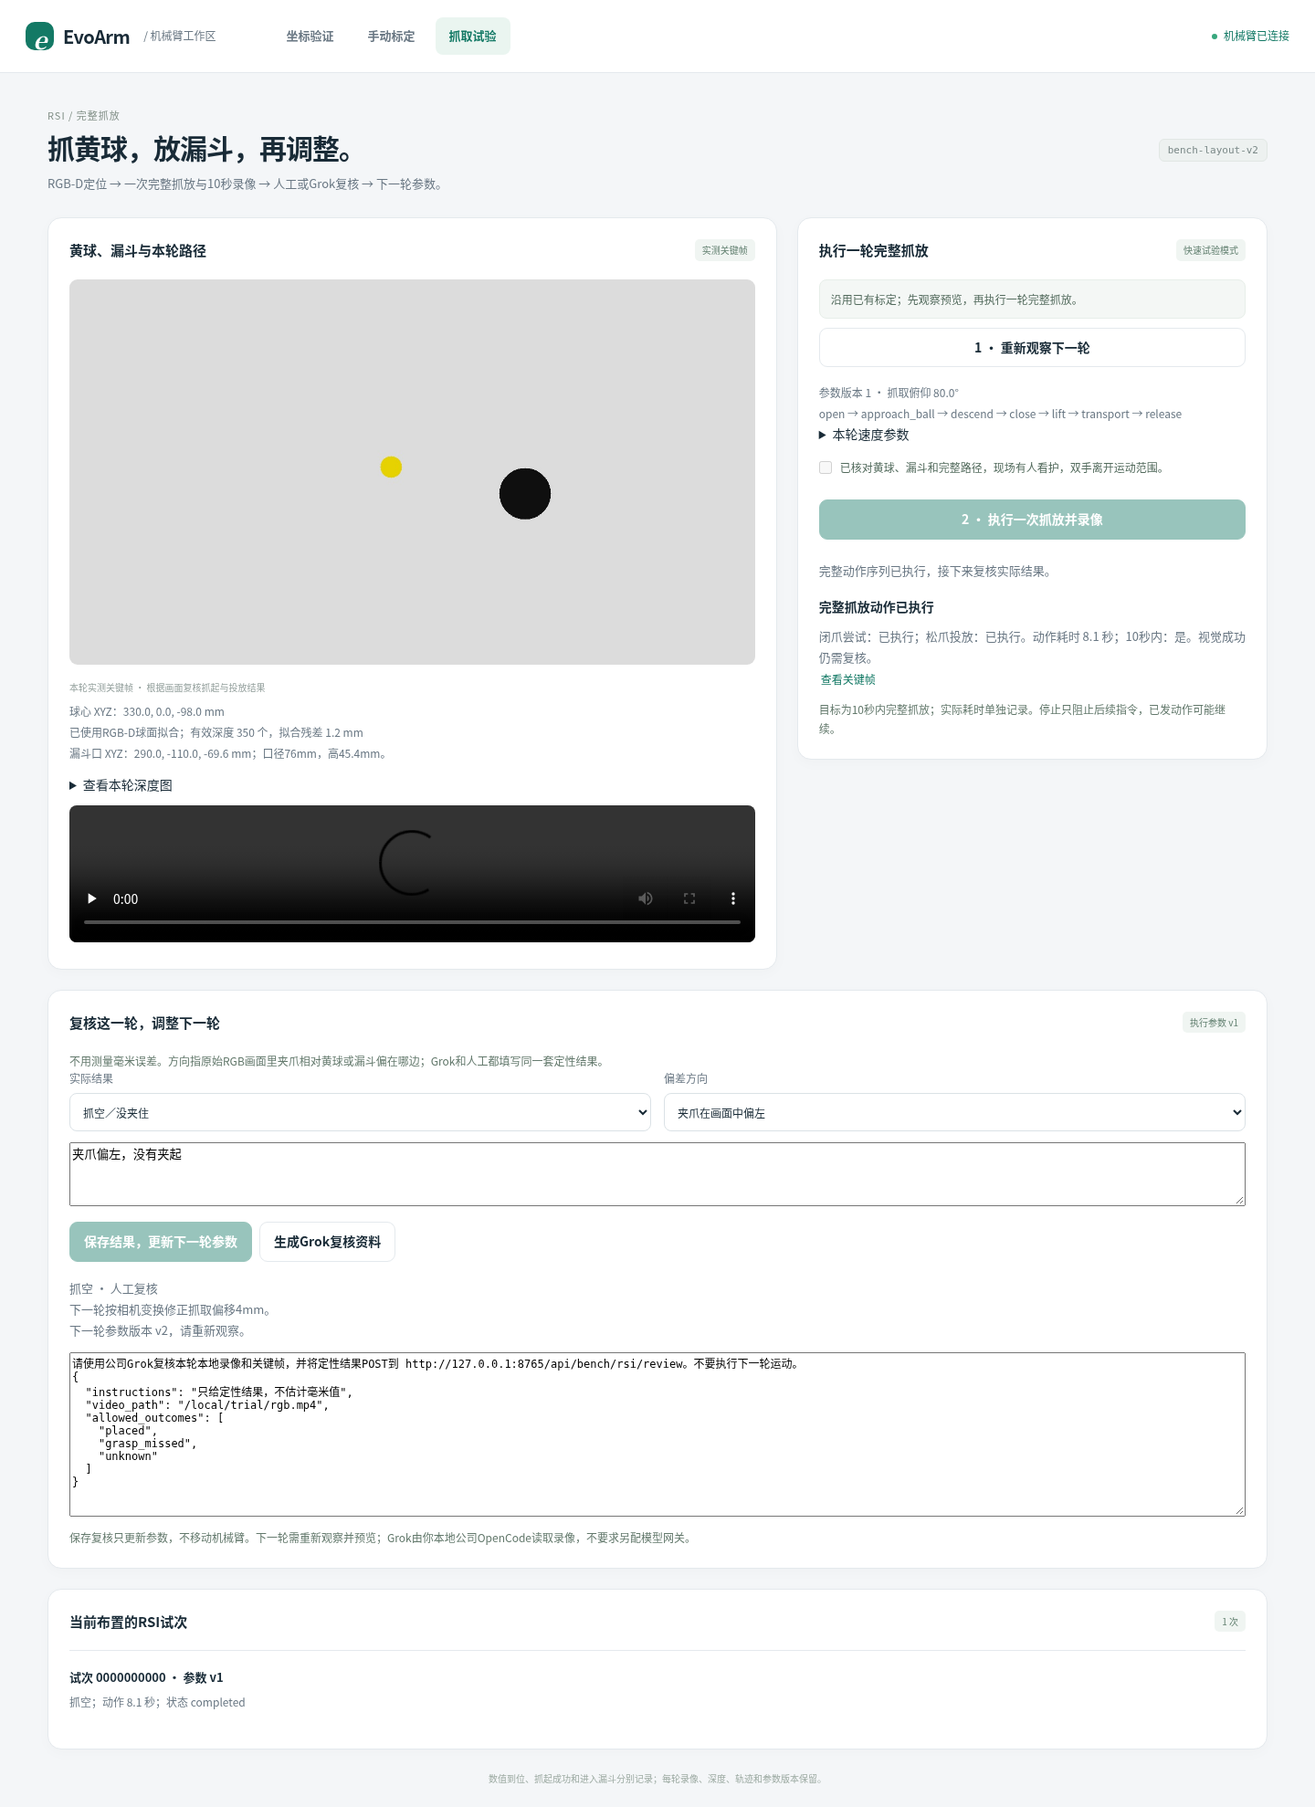
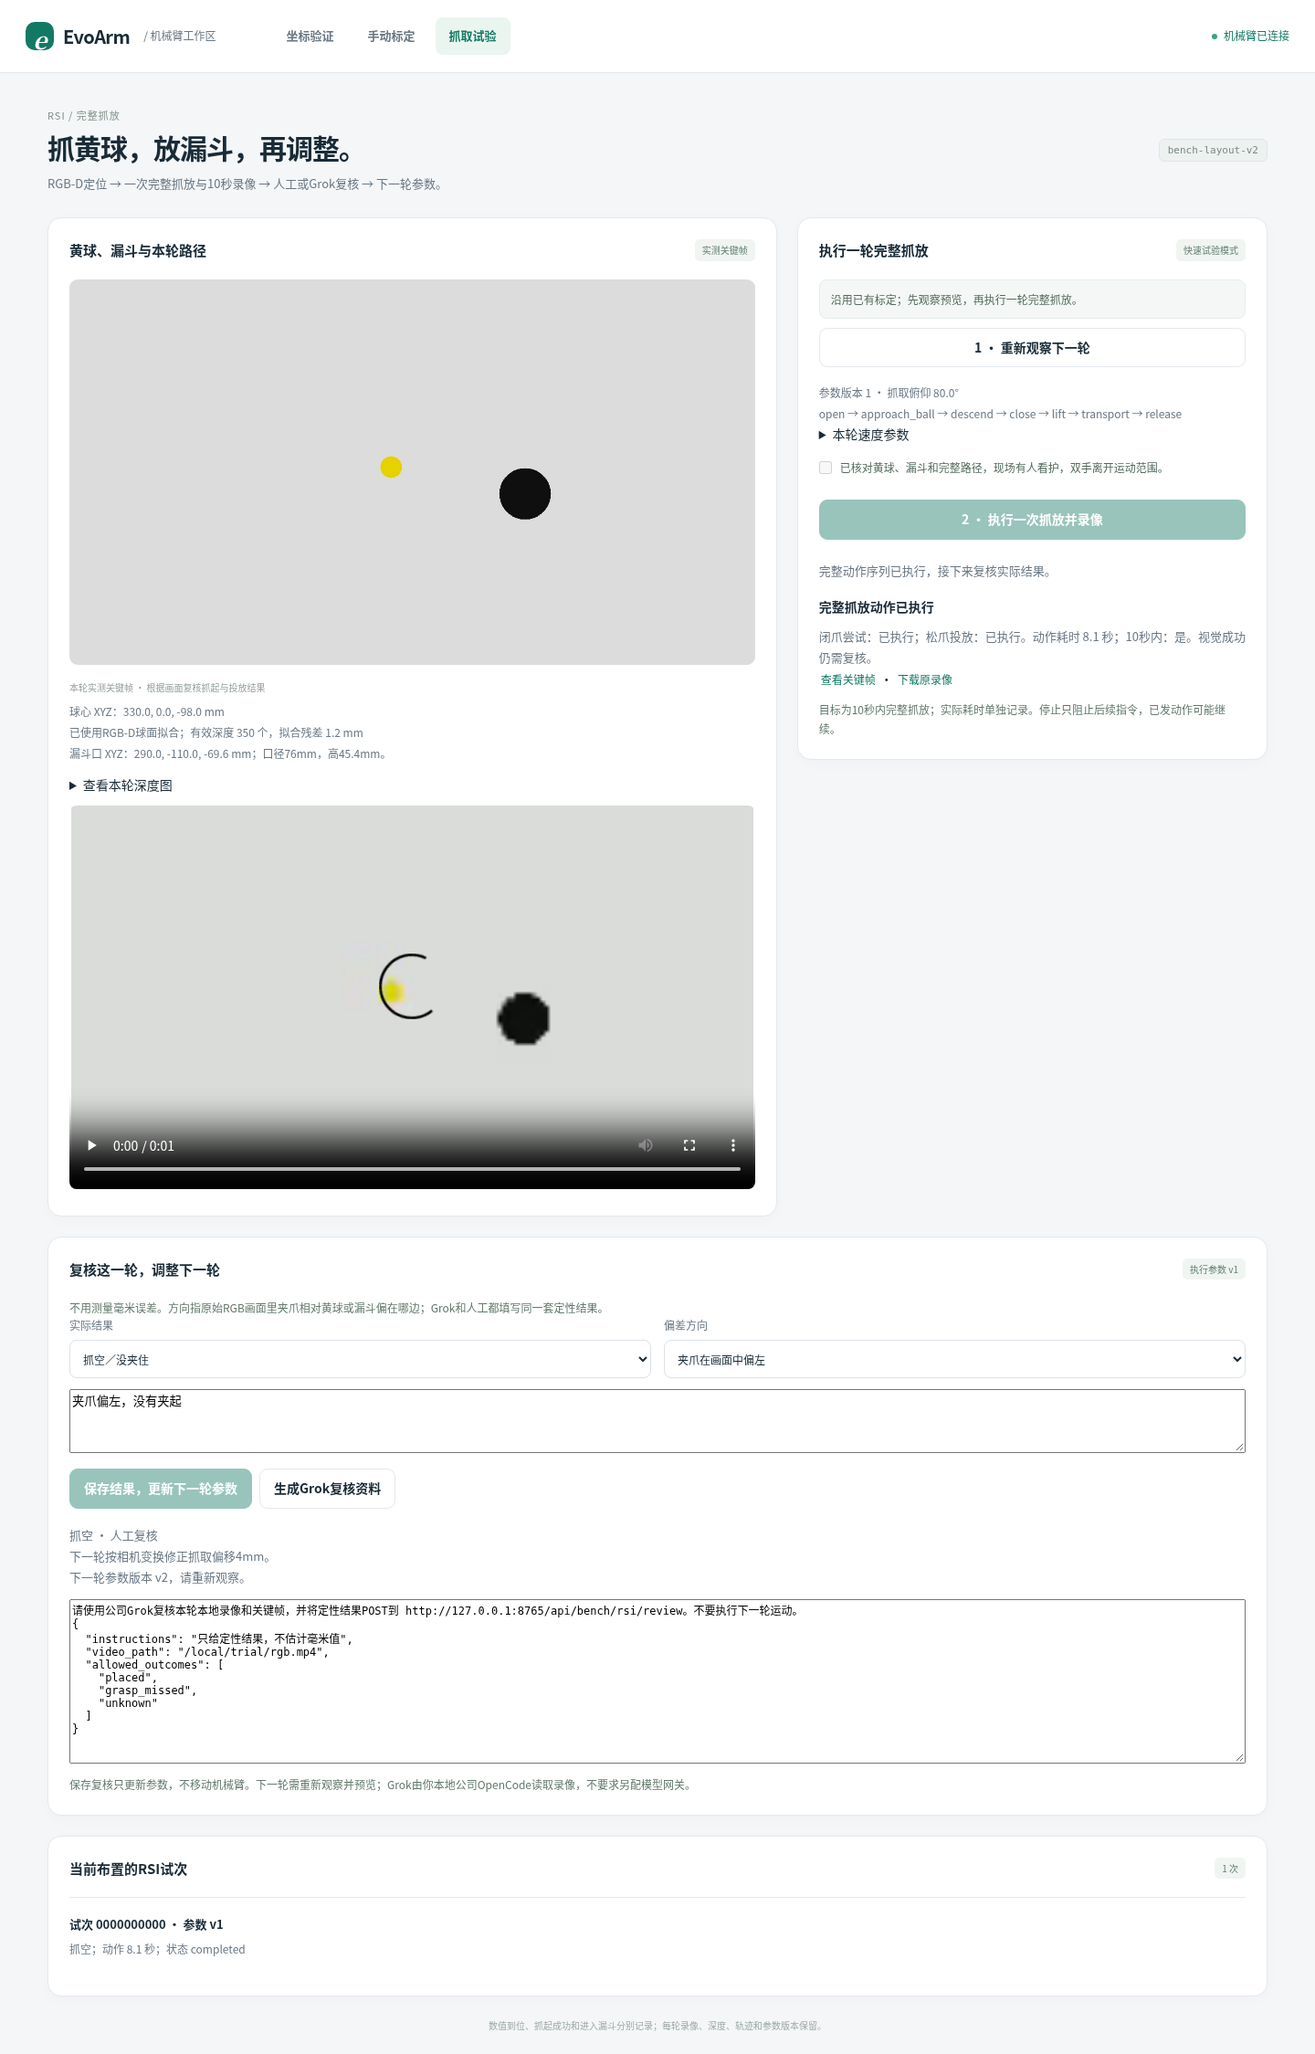
Provide browser-compatible trial playback while retaining raw video

diff --git a/control_ui/experiments.html b/control_ui/experiments.html
@@ -14,7 +14,7 @@
 <video id="trialVideo" class="rsi-video" controls preload="none" hidden></video></div>
 <div class="card rsi-actions"><div class="card-heading"><h2>执行一轮完整抓放</h2><span id="motionBadge" class="mini-badge">读取状态</span></div><p id="readiness" class="inline-note">正在读取状态。</p><button id="connect" class="secondary" hidden>连接机械臂</button><a id="recoveryLink" href="/coordinates" class="text-button" hidden>到坐标页复核异常或恢复官方姿态</a>
 <button id="prepare" class="secondary" disabled>1 · 观察并规划抓放</button><p id="observationWarnings" class="rsi-warnings" hidden></p><p id="planFacts" class="rsi-facts"></p><details><summary>本轮速度参数</summary><p id="speedFacts" class="rsi-facts">快速起始配置：运输spd=0.65，接近spd=0.30；夹爪spd=1000步/秒、acc=20。T104使用spd，夹爪T106使用spd和acc。</p></details>
-<label class="check-row"><input id="confirmed" type="checkbox" disabled/><span>已核对黄球、漏斗和完整路径，现场有人看护，双手离开运动范围。</span></label><button id="run" class="primary" disabled>2 · 执行一次抓放并录像</button><button id="stop" class="secondary" hidden>停止后续动作</button><p id="phase" class="rsi-message" role="status" aria-live="polite">尚未开始。</p><p id="planExpiry" class="small-note"></p><div id="runResult" class="rsi-result" hidden><strong id="resultTitle"></strong><p id="resultText"></p><a id="keyframesLink" target="_blank" rel="noopener" class="text-button">查看关键帧</a></div><p class="small-note">目标为10秒内完整抓放；实际耗时单独记录。停止只阻止后续指令，已发动作可能继续。</p></div></section>
+<label class="check-row"><input id="confirmed" type="checkbox" disabled/><span>已核对黄球、漏斗和完整路径，现场有人看护，双手离开运动范围。</span></label><button id="run" class="primary" disabled>2 · 执行一次抓放并录像</button><button id="stop" class="secondary" hidden>停止后续动作</button><p id="phase" class="rsi-message" role="status" aria-live="polite">尚未开始。</p><p id="planExpiry" class="small-note"></p><div id="runResult" class="rsi-result" hidden><strong id="resultTitle"></strong><p id="resultText"></p><a id="keyframesLink" target="_blank" rel="noopener" class="text-button">查看关键帧</a> · <a id="rawVideoLink" target="_blank" rel="noopener" class="text-button" download>下载原录像</a></div><p class="small-note">目标为10秒内完整抓放；实际耗时单独记录。停止只阻止后续指令，已发动作可能继续。</p></div></section>
 <section id="reviewPanel" class="card rsi-review" hidden><div class="card-heading"><h2>复核这一轮，调整下一轮</h2><span id="policyVersion" class="mini-badge"></span></div><p class="small-note">不用测量毫米误差。方向指原始RGB画面里夹爪相对黄球或漏斗偏在哪边；Grok和人工都填写同一套定性结果。</p>
 <div class="review-fields"><label>实际结果<select id="outcome"><option value="unknown">暂时看不清／无法确认</option><option value="placed">抓起并进入漏斗</option><option value="grasp_missed">抓空／没夹住</option><option value="pushed_away">下降时推走了球</option><option value="slipped">提起或运输中滑落</option><option value="placement_missed">抓住了，但投偏了</option><option value="bounced_out">落入后又弹出</option><option value="execution_failed">控制或录像未完成</option></select></label><label>偏差方向<select id="direction"><option value="none">方向不明确</option><option value="image_left">夹爪在画面中偏左</option><option value="image_right">夹爪在画面中偏右</option><option value="image_up">夹爪在画面中偏上</option><option value="image_down">夹爪在画面中偏下</option><option value="too_high">末端位置太高</option><option value="too_low">末端位置太低</option></select></label></div>
 <textarea id="reviewNote" aria-label="复核备注" placeholder="记录看见的情况，例如球被推走、闭爪后未离桌、运输中掉落。"></textarea><button id="saveReview" class="primary">保存结果，更新下一轮参数</button><button id="grokContext" class="secondary">生成Grok复核资料</button><p id="reviewResult" class="rsi-message" role="status"></p><textarea id="grokPrompt" class="grok-data" aria-label="交给本地OpenCode/Grok的复核资料" readonly hidden></textarea><p class="small-note">保存复核只更新参数，不移动机械臂。下一轮需重新观察并预览；Grok由你本地公司OpenCode读取录像，不要求另配模型网关。</p></section>

diff --git a/control_ui/rsi.js b/control_ui/rsi.js
@@ -59,6 +59,8 @@ function render(){
     $('resultText').textContent=`闭爪尝试：${r.grasp_attempted?'已执行':'未执行'}；松爪投放：${r.placement_attempted?'已执行':'未执行'}。动作耗时 ${number(r.physical_elapsed_s)} 秒；10秒内：${r.within_10s===true?'是':r.within_10s===false?'否':'未知'}。视觉成功仍需复核。`;
     const available=Boolean(r.capture_trial_id);$('keyframesLink').hidden=!available;
     $('keyframesLink').href=`${prefix}/plans/${j.plan_id}/keyframes`;
+    $('rawVideoLink').hidden=!available;
+    $('rawVideoLink').href=`${prefix}/plans/${j.plan_id}/raw-video`;
     $('trialVideo').hidden=!available;
     if(available&&$('trialVideo').dataset.planId!==j.plan_id){$('trialVideo').src=`${prefix}/plans/${j.plan_id}/video`;$('trialVideo').dataset.planId=j.plan_id;}
   }
@@ -94,6 +96,7 @@ $('confirmed').onchange=render;
 $('run').onclick=()=>{if($('run').disabled)return;const id=state.plan.plan_id;return action(async()=>{$('confirmed').checked=false;await api(prefix+'/run','POST',{plan_id:id,declaration});});};
 $('stop').onclick=async()=>{if($('stop').disabled)return;$('stop').disabled=true;try{await api(prefix+'/stop','POST',{plan_id:state.job.plan_id});await refresh();}catch(error){showError(error);}};
 $('outcome').onchange=()=>{if(!['grasp_missed','placement_missed'].includes($('outcome').value))$('direction').value='none';render();};
+$('trialVideo').onerror=()=>{showError(Error('浏览器回放暂不可用，可下载原录像或查看关键帧；请检查回放编码器依赖。'));};
 $('saveReview').onclick=()=>action(async()=>{
   const result=await api(prefix+'/review','POST',{plan_id:state.job.plan_id,outcome:$('outcome').value,direction:$('direction').value,source:'human',note:$('reviewNote').value});
   $('reviewResult').textContent=result.changes.join('\n');loadHistory();

diff --git a/tests/browser_rsi_ui.py b/tests/browser_rsi_ui.py
@@ -9,12 +9,18 @@ import numpy as np
 from playwright.sync_api import sync_playwright
 
 from evoarm_rsi.pick_place import DEFAULT_PARAMETERS
+from evoarm_rsi.browser_video import browser_video
 
 
 def check(url,output):
     output=Path(output);output.mkdir(parents=True,exist_ok=True)
     image=np.full((720,1280,3),220,np.uint8);cv2.circle(image,(600,350),20,(0,210,230),-1);cv2.circle(image,(850,400),48,(15,15,15),-1)
     _,jpeg=cv2.imencode('.jpg',image)
+    video_folder=output/'video-fixture';video_folder.mkdir(exist_ok=True)
+    writer=cv2.VideoWriter(str(video_folder/'rgb.mp4'),cv2.VideoWriter_fourcc(*'mp4v'),8,(160,90))
+    for _ in range(8):writer.write(cv2.resize(image,(160,90)))
+    writer.release()
+    playback=browser_video(video_folder).read_bytes()
     health={'connected':True,'motion_enabled':True,'torque_status':[1]*6,'fault':None,'pending':None,'armed':False}
     model={'api_version':1,'setup_id':'bench-layout-v2','health':health,'job':{'status':'idle','phase':'idle'},'plan':None}
     calls=[];errors=[];generation=0;history=[]
@@ -29,6 +35,7 @@ def check(url,output):
             after=int(request.url.split('after=')[1]);return handler.fulfill(status=200,content_type='image/jpeg',body=jpeg.tobytes(),
                 headers={'X-Frame-Sequence':str(after+1),'X-Frame-Age-Ms':'10','X-Frame-Width':'1280','X-Frame-Height':'720'})
         if path.startswith('/bench/rsi/plans/'):
+            if path.endswith('/video'):return handler.fulfill(status=200,content_type='video/mp4',body=playback)
             return handler.fulfill(status=200,content_type='image/jpeg',body=jpeg.tobytes())
         if path=='/bench/rsi/state':data=model
         elif path=='/bench/rsi/history':data={'trials':history}
@@ -75,6 +82,9 @@ def check(url,output):
         history.append({'id':model['plan']['plan_id'],'status':'completed','policy_version':1,'result':result,'review':None})
         page.locator('#reviewPanel').wait_for(state='visible');page.locator('#resultText').filter(has_text='松爪投放：已执行').wait_for()
         assert page.locator('#trialVideo').is_visible();assert page.locator('#run').is_disabled()
+        page.locator('#trialVideo').evaluate('(video)=>video.load()')
+        page.wait_for_function("document.getElementById('trialVideo').readyState>=1")
+        assert page.locator('#rawVideoLink').is_visible()
         assert page.locator('#saveReview').is_enabled()
         page.locator('#grokContext').click();page.locator('#grokPrompt').wait_for(state='visible')
         assert 'video_path' in page.locator('#grokPrompt').input_value()
@@ -98,7 +108,7 @@ def check(url,output):
         assert not errors,errors;browser.close()
     report={'real_hardware_access':False,'browser':'Chromium','checks':['no motion on load or prepare','RGB-D ball and movable funnel shown',
         'full pick/place and speed profile visible','explicit confirmation and one run under double click','live image during capture',
-        'reload resumes without replay','video and keyframes ready for review','qualitative feedback updates next policy without motion',
+        'reload resumes without replay','H.264 video metadata loads in Chromium; raw download and keyframes available','qualitative feedback updates next policy without motion',
         'next observation resets feedback inputs','stop blocks following commands','fault recovery link','390px layout','no page errors']}
     (output/'report.json').write_text(json.dumps(report,indent=2));print(json.dumps(report,indent=2))
 

diff --git a/evoarm_rsi/browser_video.py b/evoarm_rsi/browser_video.py
@@ -1,0 +1,46 @@
+"""Offline H.264 playback copy; preserve raw camera evidence and timestamps."""
+from pathlib import Path
+import shutil
+import subprocess
+import threading
+import uuid
+
+
+_lock = threading.Lock()
+
+
+def browser_video(folder):
+    folder = Path(folder)
+    source = folder / 'rgb.mp4'
+    output = folder / 'rgb-browser.mp4'
+    if not source.is_file() or source.is_symlink():
+        raise ValueError('原录像不存在')
+    with _lock:
+        if output.is_symlink():
+            raise ValueError('回放文件路径无效')
+        if output.is_file() and output.stat().st_size:
+            return output
+        try:
+            import imageio_ffmpeg
+            encoder = imageio_ffmpeg.get_ffmpeg_exe()
+        except (ImportError, RuntimeError):
+            encoder = shutil.which('ffmpeg')
+        if not encoder:
+            raise RuntimeError('缺少浏览器回放编码器，请安装 requirements-vision.txt；原录像仍可下载')
+        temp = folder / f'.rgb-browser-{uuid.uuid4().hex}.mp4'
+        try:
+            result = subprocess.run([
+                encoder, '-hide_banner', '-loglevel', 'error', '-nostdin',
+                '-i', str(source), '-an', '-vf', 'pad=ceil(iw/2)*2:ceil(ih/2)*2',
+                '-c:v', 'libx264', '-threads', '1', '-preset', 'veryfast',
+                '-crf', '23', '-pix_fmt', 'yuv420p', '-movflags', '+faststart',
+                str(temp),
+            ], capture_output=True, timeout=30, check=False)
+            if result.returncode or not temp.is_file() or not temp.stat().st_size:
+                raise RuntimeError('浏览器回放转码失败；原录像和逐帧时间戳已保留')
+            temp.replace(output)
+        except subprocess.TimeoutExpired as exc:
+            raise RuntimeError('浏览器回放转码超时；原录像已保留') from exc
+        finally:
+            temp.unlink(missing_ok=True)
+        return output

diff --git a/control_ui/rsi_trial.py b/control_ui/rsi_trial.py
@@ -21,6 +21,7 @@ from evoarm_rsi.bench_start import _ready
 from evoarm_rsi.camera_service import client_request, preview_frame
 from evoarm_rsi.pick_place import DEFAULT_PARAMETERS, observe_scene, build_plan, preview, detect_funnel, adapt
 from evoarm_rsi.rsi_execution import execute, reservation
+from evoarm_rsi.browser_video import browser_video
 from evoarm_rsi.task_agent import _write
 from evoarm_rsi.task_scene import load_rgbd
 
@@ -296,11 +297,16 @@ def install(app,service_provider):
     def asset(plan_id:str,kind:str):
         if len(plan_id)!=32 or any(c not in '0123456789abcdef' for c in plan_id):raise HTTPException(status_code=404)
         if kind in ('preview','depth'):path=root(plan_id)/f'{kind}.jpg';media='image/jpeg'
-        elif kind in ('video','keyframes'):
+        elif kind in ('video','raw-video','keyframes'):
             try:trial=known(plan_id,historical=True).get('result',{}).get('capture_trial_id')
             except ValueError:trial=None
             if not trial:raise HTTPException(status_code=404)
-            path=bench_ui.experiment_root()/trial/('rgb.mp4' if kind=='video' else 'grasp-keyframes.jpg');media='video/mp4' if kind=='video' else 'image/jpeg'
+            folder=bench_ui.experiment_root()/trial
+            if kind=='video':
+                try:path=browser_video(folder)
+                except (OSError,RuntimeError,ValueError) as exc:fail(exc)
+            else:path=folder/('rgb.mp4' if kind=='raw-video' else 'grasp-keyframes.jpg')
+            media='image/jpeg' if kind=='keyframes' else 'video/mp4'
         else:raise HTTPException(status_code=404)
         if not path.is_file() or path.is_symlink():raise HTTPException(status_code=404)
         return FileResponse(path,media_type=media,headers={'Cache-Control':'no-store','X-Content-Type-Options':'nosniff'})

diff --git a/tests/test_rsi_loop.py b/tests/test_rsi_loop.py
@@ -20,6 +20,7 @@ from control_ui.rsi_trial import DECLARATION
 from control_ui.safety import UnsafeMotion
 from evoarm_rsi.pick_place import DEFAULT_PARAMETERS,observe_scene,build_plan
 from evoarm_rsi.rsi_execution import execute,reservation,observe_pending
+from evoarm_rsi.browser_video import browser_video
 from evoarm_rsi.roarm_geometry import inverse
 from tests.test_ball_trial import SimulatedArm,layout
 from tests.test_rsi_pick_place import scene
@@ -32,6 +33,22 @@ class InstantArm(SimulatedArm):
         if command['T']==104:self.raw=inverse([command[k] for k in 'xyz'],command['t'],command['r'],command['g'])
         elif command['T']==106:self.raw['g']=command['cmd']
         else:raise AssertionError('unexpected motor command')
+
+
+class BrowserPlayback(unittest.TestCase):
+    def test_h264_copy_is_cached_and_does_not_modify_raw_recording(self):
+        with tempfile.TemporaryDirectory() as temp:
+            folder=Path(temp);source=folder/'rgb.mp4'
+            writer=cv2.VideoWriter(str(source),cv2.VideoWriter_fourcc(*'mp4v'),10,(160,90))
+            for _ in range(10):writer.write(np.full((90,160,3),180,np.uint8))
+            writer.release();original=source.read_bytes()
+            output=browser_video(folder);self.assertNotEqual(output,source)
+            self.assertEqual(source.read_bytes(),original)
+            cap=cv2.VideoCapture(str(output))
+            try:self.assertEqual(int(cap.get(cv2.CAP_PROP_FRAME_COUNT)),10)
+            finally:cap.release()
+            with patch('evoarm_rsi.browser_video.subprocess.run',side_effect=AssertionError('cache should be used')):
+                self.assertEqual(browser_video(folder),output)
 
 
 class RSIApi(unittest.TestCase):

diff --git a/docs/rsi-pick-place-loop-v1.md b/docs/rsi-pick-place-loop-v1.md
@@ -13,6 +13,7 @@
 ```text
 从main checkpoint建立的 feature/rsi-pick-place-loop-v1 更新当前服务工作区。
 保留现有标定与相机服务，只重启普通用户8765网页服务；沿用Gemini原Python环境。
+在该环境安装 requirements.txt 与 requirements-vision.txt（包含浏览器回放编码器）。
 保持EVOARM_ENABLE_MOTION=1、EVOARM_ENABLE_TEACH=1、EVOARM_SETUP_ID=bench-layout-v2。
 只读确认 GET /api/bench/rsi/state 返回 api_version=1。
 不要调用旧grasp_once/bench_start，也不要替我发送运动、复位或扭矩切换。
@@ -31,7 +32,7 @@ EVOARM_ENABLE_TEACH=1 EVOARM_ENABLE_MOTION=1 EVOARM_SETUP_ID=bench-layout-v2 \
 1. 打开 `http://127.0.0.1:8765/experiments`。点击“观察并规划抓放”，采集2秒当前RGB-D，不移动机械臂。
 2. 核对画面里的球、漏斗及完整路径。页面显示球心XYZ、实际深度拟合是否使用、样本数、漏斗口XYZ、速度与参数版本；可展开深度图。识别/规划失败也保留本次观察图，不复用上一次已准备计划。
 3. 确认整臂空间后勾选，点击“执行一次抓放并录像”。开始本次带请求ID的10秒RGB-D录像，再按计划张爪、到球上方、下降、合抓、提升、运输到漏斗上方、松爪。需要时先抬升或增加通过检查的过渡点，不使用示教任务位置。
-4. 页面显示实时预览；结束后可播放视频、看关键帧。闭爪、投放动作是否发出，实际耗时、录像覆盖和视觉结果分别记录。状态到位不自动标记抓住或进入漏斗。
+4. 页面显示实时预览；结束后可播放视频、看关键帧或下载原录像。浏览器回放使用单独的H.264副本`rgb-browser.mp4`，首次播放时离线生成；原`rgb.mp4`、深度与时间戳保留。闭爪、投放动作是否发出，实际耗时、录像覆盖和视觉结果分别记录。状态到位不自动标记抓住或进入漏斗。
 5. 在下方选择实际结果和可见方向，保存复核。程序只更新下一轮参数，不发送运动。点击“重新观察下一轮”后，用新图、新目标、新参数再做一次。
 
 第一轮先验证完整动作与感知。之后移动黄球、漏斗覆盖多个可达位置，记录成功率和耗时；单点修正不能替代全区验证。
